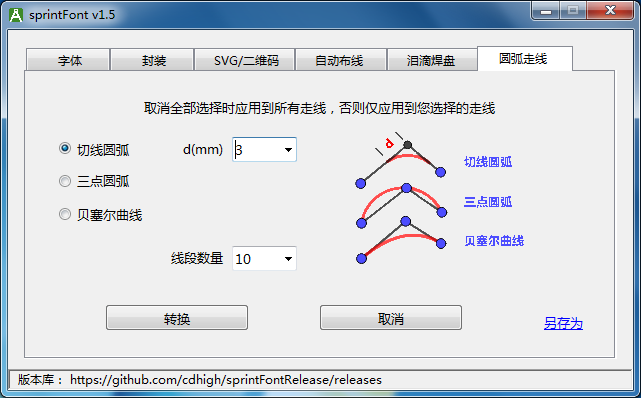
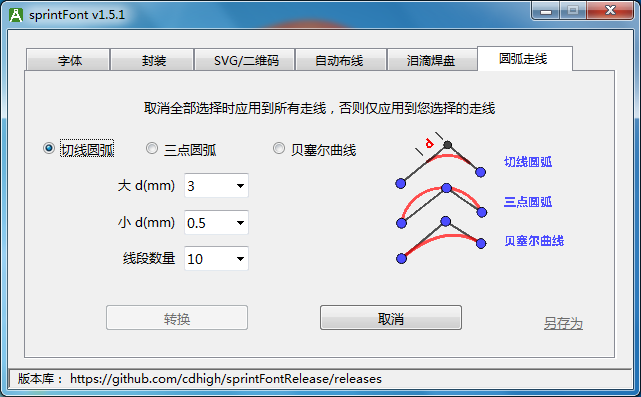
v1.5.1
切线圆弧走线提供两个距离，如果大距离不满足，则使用小距离

diff --git a/sprintFont.py b/sprintFont.py
@@ -35,8 +35,8 @@ from sprint_struct.sprint_textio import SprintTextIO
 from lceda_to_sprint import LcComponent
 from sprint_struct.sprint_export_dsn import PcbRule, SprintExportDsn
 
-__VERSION__ = "1.5"
-__DATE__ = "20220726"
+__VERSION__ = "1.5.1"
+__DATE__ = "20220807"
 __AUTHOR__ = "cdhigh"
 
 #DEBUG_IN_FILE = r'd:\1.txt'
@@ -124,8 +124,8 @@ class Application_ui(Frame):
         ws = self.master.winfo_screenwidth()
         hs = self.master.winfo_screenheight()
         x = (ws / 2) - (625 / 2)
-        y = (hs / 2) - (360 / 2)
-        self.master.geometry('%dx%d+%d+%d' % (625,360,x,y))
+        y = (hs / 2) - (359 / 2)
+        self.master.geometry('%dx%d+%d+%d' % (625,359,x,y))
         self.master.title('sprintFont')
         self.master.resizable(0,0)
         self.icondata = """
@@ -166,7 +166,7 @@ class Application_ui(Frame):
         self.style = Style()
 
         self.tabStrip = Notebook(self.top)
-        self.tabStrip.place(relx=0.026, rely=0.044, relwidth=0.949, relheight=0.869)
+        self.tabStrip.place(relx=0.026, rely=0.045, relwidth=0.949, relheight=0.872)
         self.tabStrip.bind('<<NotebookTabChanged>>', self.tabStrip_NotebookTabChanged)
 
         self.tabStrip__Tab1 = Frame(self.tabStrip)
@@ -584,15 +584,15 @@ class Application_ui(Frame):
         self.optRoundedTrackBezier.text = lambda : self.optRoundedTrackBezierTextVar.get()
         self.optRoundedTrackBezier.setValue = lambda x: self.tabStrip__Tab6RadioVar.set('optRoundedTrackBezier' if x else '')
         self.optRoundedTrackBezier.value = lambda : 1 if self.tabStrip__Tab6RadioVar.get() == 'optRoundedTrackBezier' else 0
-        self.optRoundedTrackBezier.place(relx=0.054, rely=0.46, relwidth=0.285, relheight=0.08)
-        self.optRoundedTrack3PointsTextVar = StringVar(value='Three points')
+        self.optRoundedTrackBezier.place(relx=0.418, rely=0.23, relwidth=0.164, relheight=0.08)
+        self.optRoundedTrack3PointsTextVar = StringVar(value='Three-point')
         self.style.configure('ToptRoundedTrack3Points.TRadiobutton', font=('微软雅黑',10))
-        self.optRoundedTrack3Points = Radiobutton(self.tabStrip__Tab6, text='Three points', value='optRoundedTrack3Points', textvariable=self.optRoundedTrack3PointsTextVar, variable=self.tabStrip__Tab6RadioVar, style='ToptRoundedTrack3Points.TRadiobutton')
+        self.optRoundedTrack3Points = Radiobutton(self.tabStrip__Tab6, text='Three-point', value='optRoundedTrack3Points', textvariable=self.optRoundedTrack3PointsTextVar, variable=self.tabStrip__Tab6RadioVar, style='ToptRoundedTrack3Points.TRadiobutton')
         self.optRoundedTrack3Points.setText = lambda x: self.optRoundedTrack3PointsTextVar.set(x)
         self.optRoundedTrack3Points.text = lambda : self.optRoundedTrack3PointsTextVar.get()
         self.optRoundedTrack3Points.setValue = lambda x: self.tabStrip__Tab6RadioVar.set('optRoundedTrack3Points' if x else '')
         self.optRoundedTrack3Points.value = lambda : 1 if self.tabStrip__Tab6RadioVar.get() == 'optRoundedTrack3Points' else 0
-        self.optRoundedTrack3Points.place(relx=0.054, rely=0.332, relwidth=0.245, relheight=0.105)
+        self.optRoundedTrack3Points.place(relx=0.202, rely=0.23, relwidth=0.191, relheight=0.08)
         self.optRoundedTrackTangentTextVar = StringVar(value='Tangent')
         self.style.configure('ToptRoundedTrackTangent.TRadiobutton', font=('微软雅黑',10))
         self.optRoundedTrackTangent = Radiobutton(self.tabStrip__Tab6, text='Tangent', value='optRoundedTrackTangent', textvariable=self.optRoundedTrackTangentTextVar, variable=self.tabStrip__Tab6RadioVar, style='ToptRoundedTrackTangent.TRadiobutton')
@@ -601,13 +601,13 @@ class Application_ui(Frame):
         self.optRoundedTrackTangent.setValue = lambda x: self.tabStrip__Tab6RadioVar.set('optRoundedTrackTangent' if x else '')
         self.optRoundedTrackTangent.value = lambda : 1 if self.tabStrip__Tab6RadioVar.get() == 'optRoundedTrackTangent' else 0
         self.optRoundedTrackTangent.setValue(1)
-        self.optRoundedTrackTangent.place(relx=0.054, rely=0.23, relwidth=0.164, relheight=0.08)
+        self.optRoundedTrackTangent.place(relx=0.027, rely=0.23, relwidth=0.15, relheight=0.08)
         self.cmbRoundedTrackSegsList = ['',]
         self.cmbRoundedTrackSegsVar = StringVar(value='')
         self.cmbRoundedTrackSegs = Combobox(self.tabStrip__Tab6, textvariable=self.cmbRoundedTrackSegsVar, values=self.cmbRoundedTrackSegsList, font=('微软雅黑',10))
         self.cmbRoundedTrackSegs.setText = lambda x: self.cmbRoundedTrackSegsVar.set(x)
         self.cmbRoundedTrackSegs.text = lambda : self.cmbRoundedTrackSegsVar.get()
-        self.cmbRoundedTrackSegs.place(relx=0.351, rely=0.613, relwidth=0.11)
+        self.cmbRoundedTrackSegs.place(relx=0.27, rely=0.613, relwidth=0.11)
         self.cmdRoundedTrackConvertVar = StringVar(value='Convert')
         self.style.configure('TcmdRoundedTrackConvert.TButton', font=('微软雅黑',10))
         self.cmdRoundedTrackConvert = Button(self.tabStrip__Tab6, text='Convert', textvariable=self.cmdRoundedTrackConvertVar, command=self.cmdRoundedTrackConvert_Cmd, style='TcmdRoundedTrackConvert.TButton')
@@ -620,32 +620,14 @@ class Application_ui(Frame):
         self.cmdRoundedTrackCancel.setText = lambda x: self.cmdRoundedTrackCancelVar.set(x)
         self.cmdRoundedTrackCancel.text = lambda : self.cmdRoundedTrackCancelVar.get()
         self.cmdRoundedTrackCancel.place(relx=0.499, rely=0.818, relwidth=0.245, relheight=0.096)
-        self.cmbRoundedTrackDistanceList = ['',]
-        self.cmbRoundedTrackDistanceVar = StringVar(value='')
-        self.cmbRoundedTrackDistance = Combobox(self.tabStrip__Tab6, textvariable=self.cmbRoundedTrackDistanceVar, values=self.cmbRoundedTrackDistanceList, font=('微软雅黑',10))
-        self.cmbRoundedTrackDistance.setText = lambda x: self.cmbRoundedTrackDistanceVar.set(x)
-        self.cmbRoundedTrackDistance.text = lambda : self.cmbRoundedTrackDistanceVar.get()
-        self.cmbRoundedTrackDistance.place(relx=0.351, rely=0.23, relwidth=0.11)
+        self.cmbRoundedTrackBigDistanceList = ['',]
+        self.cmbRoundedTrackBigDistanceVar = StringVar(value='')
+        self.cmbRoundedTrackBigDistance = Combobox(self.tabStrip__Tab6, textvariable=self.cmbRoundedTrackBigDistanceVar, values=self.cmbRoundedTrackBigDistanceList, font=('微软雅黑',10))
+        self.cmbRoundedTrackBigDistance.setText = lambda x: self.cmbRoundedTrackBigDistanceVar.set(x)
+        self.cmbRoundedTrackBigDistance.text = lambda : self.cmbRoundedTrackBigDistanceVar.get()
+        self.cmbRoundedTrackBigDistance.place(relx=0.27, rely=0.358, relwidth=0.11)
         self.picRoundedTrack = Canvas(self.tabStrip__Tab6, takefocus=1, highlightthickness=0)
-        self.picRoundedTrack.place(relx=0.526, rely=0.204, relwidth=0.447, relheight=0.514)
-        self.Label1Var = StringVar(value='d(mm)')
-        self.style.configure('TLabel1.TLabel', anchor='e', font=('微软雅黑',10))
-        self.Label1 = Label(self.tabStrip__Tab6, text='d(mm)', textvariable=self.Label1Var, style='TLabel1.TLabel')
-        self.Label1.setText = lambda x: self.Label1Var.set(x)
-        self.Label1.text = lambda : self.Label1Var.get()
-        self.Label1.place(relx=0.243, rely=0.23, relwidth=0.096, relheight=0.08)
-        self.lblRoundedTrackSegsVar = StringVar(value='Number of segments')
-        self.style.configure('TlblRoundedTrackSegs.TLabel', anchor='e', font=('微软雅黑',10))
-        self.lblRoundedTrackSegs = Label(self.tabStrip__Tab6, text='Number of segments', textvariable=self.lblRoundedTrackSegsVar, style='TlblRoundedTrackSegs.TLabel')
-        self.lblRoundedTrackSegs.setText = lambda x: self.lblRoundedTrackSegsVar.set(x)
-        self.lblRoundedTrackSegs.text = lambda : self.lblRoundedTrackSegsVar.get()
-        self.lblRoundedTrackSegs.place(relx=0.081, rely=0.613, relwidth=0.258, relheight=0.08)
-        self.lblRoundedTrackTipsVar = StringVar(value='rounded_track_features_tips')
-        self.style.configure('TlblRoundedTrackTips.TLabel', anchor='center', font=('微软雅黑',10))
-        self.lblRoundedTrackTips = Label(self.tabStrip__Tab6, text='rounded_track_features_tips', textvariable=self.lblRoundedTrackTipsVar, style='TlblRoundedTrackTips.TLabel')
-        self.lblRoundedTrackTips.setText = lambda x: self.lblRoundedTrackTipsVar.set(x)
-        self.lblRoundedTrackTips.text = lambda : self.lblRoundedTrackTipsVar.get()
-        self.lblRoundedTrackTips.place(relx=0.027, rely=0.077, relwidth=0.946, relheight=0.105)
+        self.picRoundedTrack.place(relx=0.594, rely=0.204, relwidth=0.379, relheight=0.514)
         self.lblSaveAsRoundedTrackVar = StringVar(value='Save as')
         self.style.configure('TlblSaveAsRoundedTrack.TLabel', anchor='w', foreground='#0000FF', font=('微软雅黑',10,'underline'))
         self.lblSaveAsRoundedTrack = Label(self.tabStrip__Tab6, text='Save as', textvariable=self.lblSaveAsRoundedTrackVar, style='TlblSaveAsRoundedTrack.TLabel')
@@ -653,10 +635,41 @@ class Application_ui(Frame):
         self.lblSaveAsRoundedTrack.text = lambda : self.lblSaveAsRoundedTrackVar.get()
         self.lblSaveAsRoundedTrack.place(relx=0.877, rely=0.843, relwidth=0.11, relheight=0.08)
         self.lblSaveAsRoundedTrack.bind('<Button-1>', self.lblSaveAsRoundedTrack_Button_1)
+        self.lblRoundedTrackBigDVar = StringVar(value='big d(mm)')
+        self.style.configure('TlblRoundedTrackBigD.TLabel', anchor='e', font=('微软雅黑',10))
+        self.lblRoundedTrackBigD = Label(self.tabStrip__Tab6, text='big d(mm)', textvariable=self.lblRoundedTrackBigDVar, style='TlblRoundedTrackBigD.TLabel')
+        self.lblRoundedTrackBigD.setText = lambda x: self.lblRoundedTrackBigDVar.set(x)
+        self.lblRoundedTrackBigD.text = lambda : self.lblRoundedTrackBigDVar.get()
+        self.lblRoundedTrackBigD.place(relx=0.054, rely=0.358, relwidth=0.204, relheight=0.08)
+        self.lblRoundedTrackSegsVar = StringVar(value='segments')
+        self.style.configure('TlblRoundedTrackSegs.TLabel', anchor='e', font=('微软雅黑',10))
+        self.lblRoundedTrackSegs = Label(self.tabStrip__Tab6, text='segments', textvariable=self.lblRoundedTrackSegsVar, style='TlblRoundedTrackSegs.TLabel')
+        self.lblRoundedTrackSegs.setText = lambda x: self.lblRoundedTrackSegsVar.set(x)
+        self.lblRoundedTrackSegs.text = lambda : self.lblRoundedTrackSegsVar.get()
+        self.lblRoundedTrackSegs.place(relx=0.054, rely=0.613, relwidth=0.204, relheight=0.08)
+        self.lblRoundedTrackTipsVar = StringVar(value='rounded_track_features_tips')
+        self.style.configure('TlblRoundedTrackTips.TLabel', anchor='center', font=('微软雅黑',10))
+        self.lblRoundedTrackTips = Label(self.tabStrip__Tab6, text='rounded_track_features_tips', textvariable=self.lblRoundedTrackTipsVar, style='TlblRoundedTrackTips.TLabel')
+        self.lblRoundedTrackTips.setText = lambda x: self.lblRoundedTrackTipsVar.set(x)
+        self.lblRoundedTrackTips.text = lambda : self.lblRoundedTrackTipsVar.get()
+        self.lblRoundedTrackTips.place(relx=0.027, rely=0.077, relwidth=0.946, relheight=0.105)
+        self.cmbRoundedTrackSmallDistanceList = ['',]
+        self.cmbRoundedTrackSmallDistanceVar = StringVar(value='')
+        self.cmbRoundedTrackSmallDistance = Combobox(self.tabStrip__Tab6, textvariable=self.cmbRoundedTrackSmallDistanceVar, values=self.cmbRoundedTrackSmallDistanceList, font=('微软雅黑',10))
+        self.cmbRoundedTrackSmallDistance.setText = lambda x: self.cmbRoundedTrackSmallDistanceVar.set(x)
+        self.cmbRoundedTrackSmallDistance.text = lambda : self.cmbRoundedTrackSmallDistanceVar.get()
+        self.cmbRoundedTrackSmallDistance.place(relx=0.27, rely=0.486, relwidth=0.11)
+        self.lblRoundedTrackSmallDVar = StringVar(value='small d(mm)')
+        self.style.configure('TlblRoundedTrackSmallD.TLabel', anchor='e', font=('微软雅黑',10))
+        self.lblRoundedTrackSmallD = Label(self.tabStrip__Tab6, text='small d(mm)', textvariable=self.lblRoundedTrackSmallDVar, style='TlblRoundedTrackSmallD.TLabel')
+        self.lblRoundedTrackSmallD.setText = lambda x: self.lblRoundedTrackSmallDVar.set(x)
+        self.lblRoundedTrackSmallD.text = lambda : self.lblRoundedTrackSmallDVar.get()
+        self.lblRoundedTrackSmallD.place(relx=0.054, rely=0.486, relwidth=0.204, relheight=0.08)
         self.tabStrip.add(self.tabStrip__Tab6, text='ArcTrack')
 
         self.staBar = Statusbar(self.top, panelwidths=(16,))
         self.staBar.pack(side=BOTTOM, fill=X)
+
 
 class Application(Application_ui):
     #这个类实现具体的事件处理回调函数。界面生成代码在Application_ui中。
@@ -794,7 +807,7 @@ class Application(Application_ui):
                     imgData = roundedTrackImageDataCn if I18n.getLanguage().startswith('zh') else roundedTrackImageData
                     self.roundedTrackImage = PhotoImage(data=imgData)
                     self.picRoundedTrack.create_image(0, 0, image=self.roundedTrackImage, anchor=NW)
-                self.cmbRoundedTrackDistance.focus_set()
+                self.cmbRoundedTrackBigDistance.focus_set()
         except Exception as e:
             print(str(e))
             #pass
@@ -883,9 +896,11 @@ class Application(Application_ui):
         self.cmdRemoveTeardrops.setText(_("Remove"))
         self.cmdCancelTeardrops.setText(_("Cancel"))
         self.lblRoundedTrackTips.setText(_("rounded_track_features_tips"))
-        self.optRoundedTrackTangent.setText(_("Tangent arc"))
-        self.optRoundedTrack3Points.setText(_("Three points arc"))
-        self.optRoundedTrackBezier.setText(_("Bezier curve"))
+        self.optRoundedTrackTangent.setText(_("Tangent"))
+        self.optRoundedTrack3Points.setText(_("Three-point"))
+        self.optRoundedTrackBezier.setText(_("Bezier"))
+        self.lblRoundedTrackBigD.setText(_("big d(mm)"))
+        self.lblRoundedTrackSmallD.setText(_("small d(mm)"))
         self.lblRoundedTrackSegs.setText(_("Number of segments"))
         self.cmdRoundedTrackConvert.setText(_("Convert"))
         self.cmdRoundedTrackCancel.setText(_("Cancel"))
@@ -980,9 +995,12 @@ class Application(Application_ui):
         self.cmbTeardropSegs.current(9) #默认10个线段
 
         #弧形走线
-        self.cmbRoundedTrackDistanceList = [2, 3, 4, 5, 6, 7, 8, 9, 10, 15]
-        self.cmbRoundedTrackDistance.configure(values=self.cmbRoundedTrackDistanceList)
-        self.cmbRoundedTrackDistance.current(1) #默认3mm
+        self.cmbRoundedTrackBigDistanceList = [0.5, 1, 2, 3, 4, 5, 6, 7, 8, 9]
+        self.cmbRoundedTrackBigDistance.configure(values=self.cmbRoundedTrackBigDistanceList)
+        self.cmbRoundedTrackBigDistance.current(3) #默认3mm
+        self.cmbRoundedTrackSmallDistanceList = [0.5, 1, 2, 3, 4, 5, 6, 7, 8, 9]
+        self.cmbRoundedTrackSmallDistance.configure(values=self.cmbRoundedTrackSmallDistanceList)
+        self.cmbRoundedTrackSmallDistance.current(0) #默认0.5mm
         self.cmbRoundedTrackSegsList = [3, 4, 5, 6, 7, 8, 9, 10]
         self.cmbRoundedTrackSegs.configure(values=self.cmbRoundedTrackSegsList)
         self.cmbRoundedTrackSegs.current(7) #默认10个线段
@@ -1115,16 +1133,19 @@ class Application(Application_ui):
             else:
                 self.optRoundedTrackTangent.setValue(1)
 
-            distance = str_to_int(cfg.get('roundedTrackDistance', ''))
+            distance = str_to_float(cfg.get('roundedTrackBigDistance', ''))
             if distance > 0:
-                self.cmbRoundedTrackDistance.setText(str(distance))
+                self.cmbRoundedTrackBigDistance.setText('{:.1f}'.format(distance))
+            distance = str_to_float(cfg.get('roundedTrackSmallDistance', ''))
+            if distance > 0:
+                self.cmbRoundedTrackSmallDistance.setText('{:.1f}'.format(distance))
             segs = str_to_int(cfg.get('roundedTrackSegs', '10'))
             if segs:
                 self.cmbRoundedTrackSegs.setText(segs)
 
     #保存当前配置数据
     def saveConfig(self):
-        if self.versionJson: #如果检查到版本更新，则明天再检查一次
+        if self.versionJson: #如果检查到版本更新，则第二天再检查一次
             self.lastCheckUpdate = datetime.datetime.now() - datetime.timedelta(days=29)
 
         cfg = {'language': self.language, 'font': self.cmbFont.text(), 'height': self.cmbFontHeight.text(), 
@@ -1143,7 +1164,8 @@ class Application(Application_ui):
             'smdSmdClearance': str(self.pcbRule.smdSmdClearance),
             'teardropHPercent': self.cmbhPercent.text(), 'teardropVPercent': self.cmbvPercent.text(),
             'teardropSegs': self.cmbTeardropSegs.text(), 'tdIncludeSmdPads': str(self.chkIncludeSmdPads.value()),
-            'roundedTrackMethod': self.roundedTrackMethod(), 'roundedTrackDistance': self.cmbRoundedTrackDistance.text(),
+            'roundedTrackMethod': self.roundedTrackMethod(), 'roundedTrackBigDistance': self.cmbRoundedTrackBigDistance.text(),
+            'roundedTrackSmallDistance': self.cmbRoundedTrackSmallDistance.text(),
             'roundedTrackSegs': self.cmbRoundedTrackSegs.text(),
         }
         
@@ -2004,7 +2026,10 @@ class Application(Application_ui):
         if not textIo:
             return None
 
-        ret = createArcTracksInTextIo(textIo, self.roundedTrackMethod(), str_to_int(self.cmbRoundedTrackDistance.text()))
+        bigDistance = str_to_float(self.cmbRoundedTrackBigDistance.text())
+        smallDistance = str_to_float(self.cmbRoundedTrackSmallDistance.text())
+        segs = str_to_int(self.cmbRoundedTrackSegs.text())
+        ret = createArcTracksInTextIo(textIo, self.roundedTrackMethod(), bigDistance, smallDistance, segs)
         if not ret:
             showinfo(_("info"), _("No suitable track found"))
             return None

diff --git a/sprint_struct/rounded_track.py b/sprint_struct/rounded_track.py
@@ -19,10 +19,11 @@ from sprint_struct.sprint_textio import *
 #        'tangent': 离交点一段距离创建和线段相切的圆弧
 #        'bizier': 贝塞尔曲线绘制
 #        '3Points': 通过三点构造圆弧
-#distance: 离交点位置的距离
+#bigDistance: 离交点位置的最大距离
+#smallDistance: 离交点位置的最小距离
 #segNum: 平滑圆弧的线段数
 #如果有走线被转换为弧形走线，则返回True
-def createArcTracksInTextIo(textIo, method: str, distance: float, segNum: int=10):
+def createArcTracksInTextIo(textIo, method: str, bigDistance: float, smallDistance: float, segNum: int=10):
     hasTracksReplaced = False
     tracks = textIo.getConductiveTracks()
     pads = textIo.getPads()
@@ -40,10 +41,14 @@ def createArcTracksInTextIo(textIo, method: str, distance: float, segNum: int=10
 
     #默认情况下线段长度小于2mm的不转换为弧形走线
     if method != 'tangent':
-        distance = 2.0
+        bigDistance = smallDistance = 1.0
 
-    if distance <= 1:
-        distance = 2
+    if bigDistance < 0.1:
+        bigDistance = 0.1
+    if smallDistance < 0.1:
+        smallDistance = 0.1
+    if smallDistance > bigDistance:
+        smallDistance, bigDistance = bigDistance, smallDistance
 
     if segNum < 2:
         segNum = 2
@@ -64,17 +69,24 @@ def createArcTracksInTextIo(textIo, method: str, distance: float, segNum: int=10
             newPoints.append(pt1)
 
             #如果第二个线段太短，则忽略前面两个线段，并且往后取两个点
-            if (pointDistance(pt2, pt3) <= distance):
+            distance23 = pointDistance(pt2, pt3)
+            distance12 = pointDistance(pt1, pt2)
+            if (distance23 <= smallDistance):
                 newPoints.append(pt2)
                 idx += 2
                 continue
             #如果第一个线段太短，则忽略之，并且往后再取一个点
             #中间点在导电区域内也跳过一个点
-            elif ((pointDistance(pt1, pt2) <= distance) or isPointInsideConductiveArea(pt2, track.layerIdx)):
+            elif ((distance12 <= smallDistance) or isPointInsideConductiveArea(pt2, track.layerIdx)):
                 idx += 1
                 continue
             
             if (method == 'tangent'):
+                distance = min(distance23, distance12)
+                if (distance > bigDistance):
+                    distance = bigDistance
+                else:
+                    distance = smallDistance
                 ptList = arcByTangentLine(pt1, pt2, pt3, distance, segNum)
                 #textIo.add(ptList)
                 #return

diff --git a/i18n.py b/i18n.py
@@ -157,13 +157,15 @@ class I18n:
     "rounded_track_features_tips": (
         "Apply to all tracks when deselecting all, otherwise apply to selected tracks only",
         "取消全部选择时应用到所有走线，否则仅应用到您选择的走线"),
-    "Tangent arc": ("", "切线圆弧"),
-    "Three points arc": ("", "三点圆弧"),
-    "Bezier curve": ("", "贝塞尔曲线"),
+    "Tangent": ("", "切线圆弧"),
+    "Three-point": ("", "三点圆弧"),
+    "Bezier": ("", "贝塞尔曲线"),
+    "big d(mm)": ("", "大 d(mm)"),
+    "small d(mm)": ("", "小 d(mm)"),
     "Convert": ("", "转换"),
     "No suitable track found": ("", "没有找到符合条件的走线"),
     }
-
+    
     #这个属性是可以在程序执行过程中修改的
     _langIndex = 0
 

diff --git a/sprint_struct/sprint_polygon.py b/sprint_struct/sprint_polygon.py
@@ -152,7 +152,7 @@ class SprintPolygon(SprintElement):
     #将polygon合并进自己，前提是polygon在自己内部
     #算法：将polygon的第一个点反向做一个水平射线，直到和另一个多边形的某个边相交
     #然后将交点同时做为polygon的起点和终点，将polygon展开为一个“线段”
-    #最好将此线段合并入另一个多边形（合并位置在交点位置）
+    #最后将此线段合并入另一个多边形（合并位置在交点位置）
     #因为用于字体，这里有一个假定，多边形都是凸多边形
     def devour(self, polygon):
         if (not polygon.isValid()):
